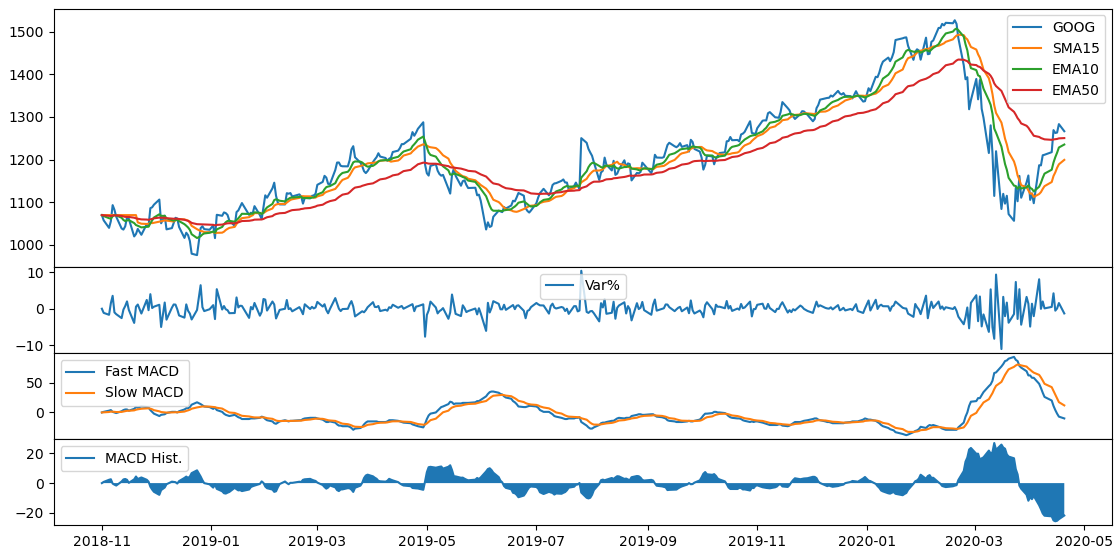
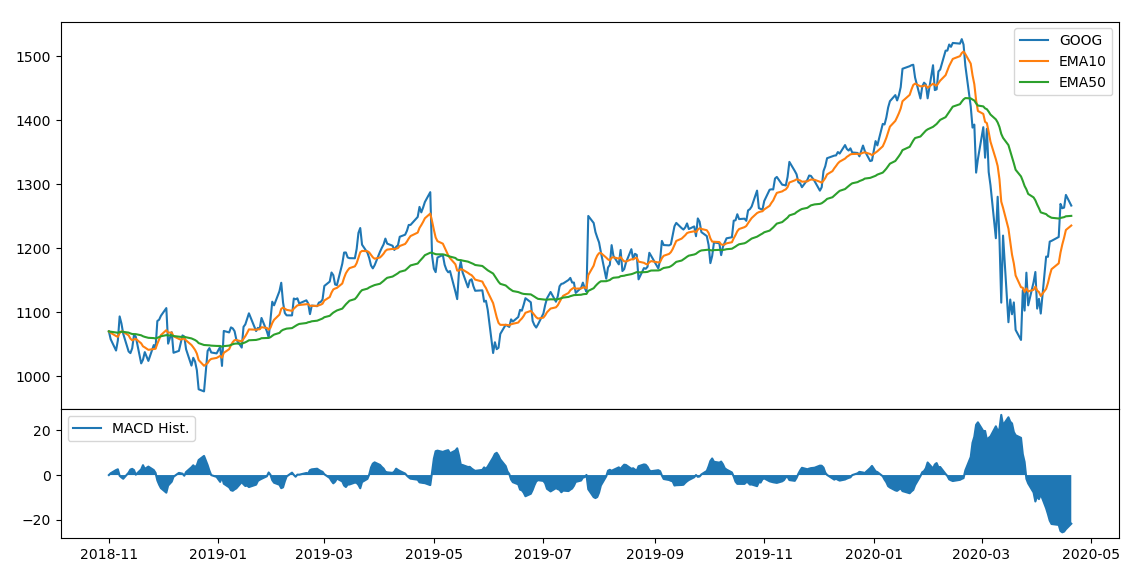
Add files via upload

diff --git a/StockAnalyzer.py b/StockAnalyzer.py
@@ -12,9 +12,7 @@ class analysis:
 
       self.plotsSMA = []
       self.plotsEMA = []
-      self.plotsVAR = []
-      self.plotsMACD = []
-      self.plotsHistMACD = [] 
+      self.parallelGraph = ''
 
    def SMA (self, n , plot=True , data=[]):
 
@@ -84,7 +82,7 @@ class analysis:
       if plot == True:
 
          self.data.insert(len(self.data.columns), 'var', var)
-         self.plotsVAR.append('var')
+         self.parallelGraph = 'var'
 
       return var
 
@@ -105,9 +103,8 @@ class analysis:
       if plot == True:
 
          self.data.insert(len(self.data.columns), 'fastMACD', fastMACD)
-         self.plotsMACD.append('fastMACD')
          self.data.insert(len(self.data.columns), 'slowMACD', slowMACD)
-         self.plotsMACD.append('slowMACD')
+         self.parallelGraph = 'macd'
 
       return fastMACD, slowMACD
 
@@ -122,134 +119,45 @@ class analysis:
          MACDhist.append(fastMACD[i] - slowMACD[i])
 
       self.data.insert(len(self.data.columns), 'MACDhist', MACDhist)   
-      self.plotsHistMACD.append('MACDhist')
+      self.parallelGraph = 'MACDhist'
 
 
    def plot (self):
 
-      numberAxes = 0
-      plots = []
 
-      if len(self.plotsVAR) != 0:
-         numberAxes += 1
-         plots.append('var')
-      if len(self.plotsMACD) != 0:
-         numberAxes += 1
-         plots.append('macd')
-      if len(self.plotsHistMACD)!= 0:
-         numberAxes += 1
-         plots.append('MACDhist')
+      fig, (ax1, ax2) = plt.subplots(2, 1, sharex=True, figsize=(6, 6), gridspec_kw={'height_ratios': [3, 1]})
+      
+      ax1.plot(self.data.index , self.data['Close'] , '-' , label=self.stock)
 
-      if numberAxes == 0:
+      for i in self.plotsSMA:
 
-         self.data['Close'].plot(grid=True, label=self.stock)
+         ax1.plot(self.data.index , self.data[i] , '-' , label=i.upper())
 
-         for i in self.plotsSMA:
+      for i in self.plotsEMA:
 
-            self.data[i].plot(grid=True, label=i.upper())
+         ax1.plot(self.data.index , self.data[i] , '-' , label=i.upper())
 
-         for i in self.plotsEMA:
 
-            self.data[i].plot(grid=True, label=i.upper())
+      ax1.legend()
 
-         plt.legend()
+      
 
-      if numberAxes == 1:
-
-         fig, (ax1, ax2) = plt.subplots(2, 1, sharex=True, figsize=(6, 6), gridspec_kw={'height_ratios': [3, 1]})
+      if self.parallelGraph == 'macd':
          
-         ax1.plot(self.data.index , self.data['Close'] , '-' , label=self.stock)
-
-         for i in self.plotsSMA:
-
-            ax1.plot(self.data.index , self.data[i] , '-' , label=i.upper())
-
-         for i in self.plotsEMA:
-
-            ax1.plot(self.data.index , self.data[i] , '-' , label=i.upper())
-
-         ax1.legend()
-
-         axes = [ax2]
-
-         for i in range (numberAxes):
-
-            if plots[i] == 'macd':
-               axes[i].plot(self.data.index, self.data['fastMACD'], label='Fast MACD') 
-               axes[i].plot(self.data.index, self.data['slowMACD'], label='Slow MACD')
-            elif plots[i] == 'MACDhist':
-               axes[i].plot(self.data.index, self.data[plots[i]] , label='MACD Hist.')
-               axes[i].fill_between(self.data.index , self.data['MACDhist'])
-            else:
-               axes[i].plot(self.data.index, self.data[plots[i]], label='Var%')
+               ax2.plot(self.data.index, self.data['fastMACD'], label='Fast MACD') 
+               ax2.plot(self.data.index, self.data['slowMACD'], label='Slow MACD')
                
-            axes[i].legend()
-
-
-      if numberAxes == 2:
-
-         fig, (ax1, ax2, ax3) = plt.subplots(3, 1, sharex=True, figsize=(6, 6), gridspec_kw={'height_ratios': [3, 1 , 1]})
+      elif self.parallelGraph == 'MACDhist':
          
-         ax1.plot(self.data.index , self.data['Close'] , '-' , label=self.stock)
-
-         for i in self.plotsSMA:
-
-            ax1.plot(self.data.index , self.data[i] , '-' , label=i.upper())
-
-         for i in self.plotsEMA:
-
-            ax1.plot(self.data.index , self.data[i] , '-' , label=i.upper())
-
-         ax1.legend()
-
-         axes = [ax2, ax3]
-
-         for i in range (numberAxes):
-
-            if plots[i] == 'macd':
-               axes[i].plot(self.data.index, self.data['fastMACD'], label='Fast MACD') 
-               axes[i].plot(self.data.index, self.data['slowMACD'], label='Slow MACD')
-            elif plots[i] == 'MACDhist':
-               axes[i].plot(self.data.index, self.data[plots[i]] , label='MACD Hist.')
-               axes[i].fill_between(self.data.index , self.data['MACDhist'])
-            else:
-               axes[i].plot(self.data.index, self.data[plots[i]], label='Var%')
+               ax2.plot(self.data.index, self.data[self.parallelGraph] , label='MACD Hist.')
+               ax2.fill_between(self.data.index , self.data['MACDhist'])
                
-            axes[i].legend()
-
-      if numberAxes == 3:
-
-         fig, (ax1, ax2, ax3, ax4) = plt.subplots(4, 1, sharex=True, figsize=(6, 6), gridspec_kw={'height_ratios': [3, 1, 1,1]})
+      elif self.parallelGraph == 'var':
          
-         ax1.plot(self.data.index , self.data['Close'] , '-' , label=self.stock)
+               ax2.plot(self.data.index, self.data[self.parallelGraph], label='Var%')
 
-         for i in self.plotsSMA:
-
-            ax1.plot(self.data.index , self.data[i] , '-' , label=i.upper())
-
-         for i in self.plotsEMA:
-
-            ax1.plot(self.data.index , self.data[i] , '-' , label=i.upper())
-
-         ax1.legend()
-
-         axes = [ax2, ax3 , ax4]
-
-         for i in range (numberAxes):
-
-            if plots[i] == 'macd':
-               axes[i].plot(self.data.index, self.data['fastMACD'], label='Fast MACD') 
-               axes[i].plot(self.data.index, self.data['slowMACD'], label='Slow MACD')
-            elif plots[i] == 'MACDhist':
-               axes[i].plot(self.data.index, self.data[plots[i]] , label='MACD Hist.')
-               axes[i].fill_between(self.data.index , self.data['MACDhist'])
-            else:
-               axes[i].plot(self.data.index, self.data[plots[i]], label='Var%')
-               
-            axes[i].legend()
-
-
-      plt.legend()
+      ax2.legend()
+      
       plt.show()
 
 

diff --git a/Example.py b/Example.py
@@ -6,16 +6,16 @@ from StockAnalyzer import analysis
 googleStock = analysis("GOOG", "2018-11-01" , "2020-04-21") # Creates an analysis, from 2018-11-01 to 2020-04-21
 
 # Variation in %
-googleStock.VAR()
+#googleStock.VAR()
 
 # MACD lines (fast and slow) - Default is 12, 26 and 9 days.
-googleStock.MACD()
+#googleStock.MACD()
 
 # MACD Histogram
 googleStock.MACDhistogram()
 
 # SMA - Simple moving average
-googleStock.SMA(15) # Creates SMA of 15 days
+#googleStock.SMA(15) # Creates SMA of 15 days
 
 # EMA - Exponential moving average
 googleStock.EMA(10)  # Creates EMA of 10 days
@@ -30,3 +30,4 @@ googleStock.plot()
 #  You can comment or remove the line if you
 #  want to remove an indicator, for example:
 #  #googleStock.EMA(25)
+
